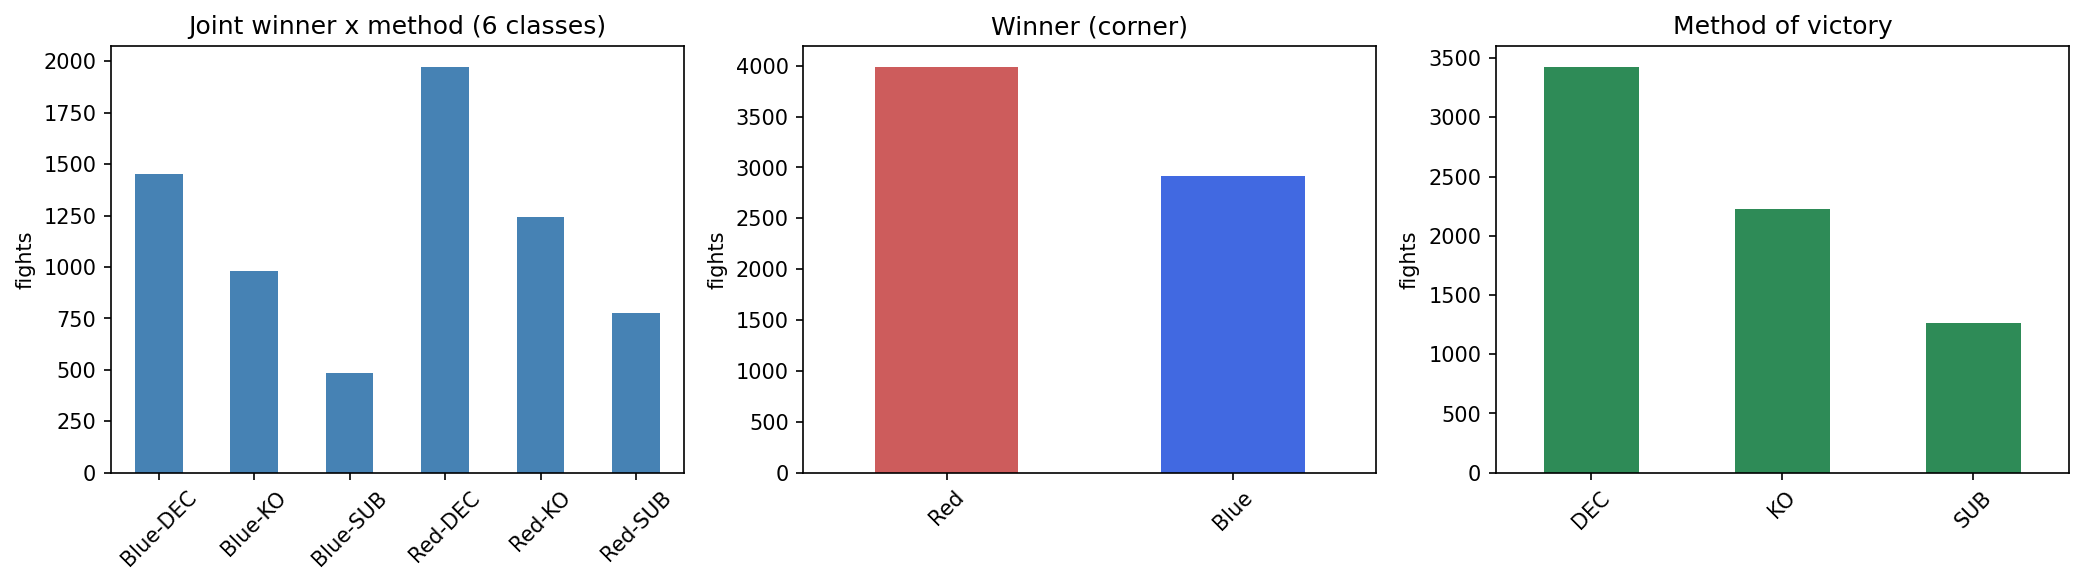
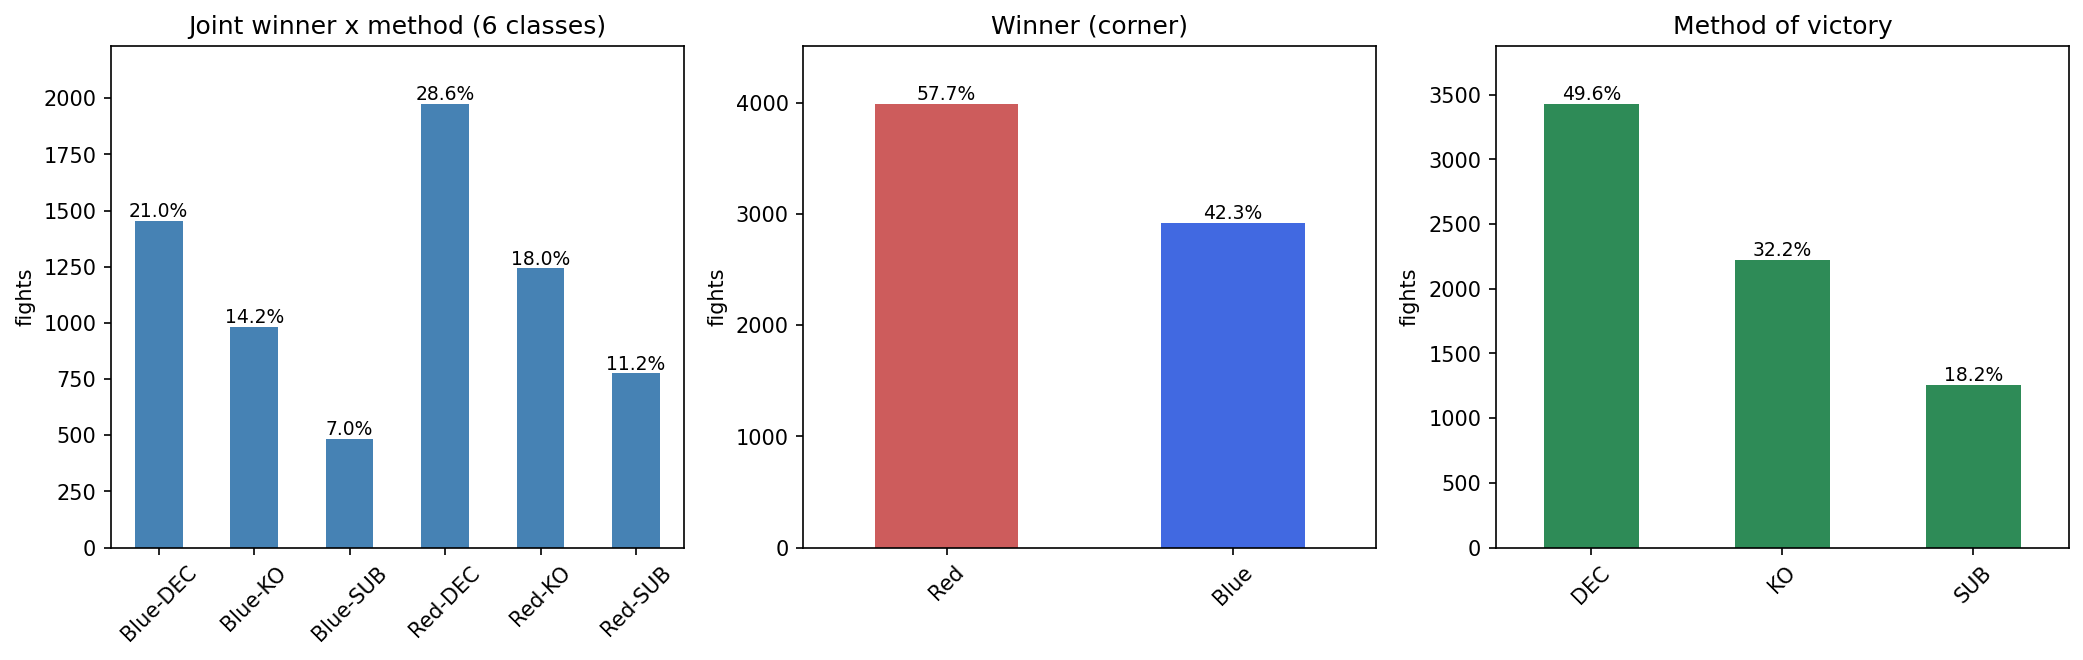
eda notebook improvements. include plots in report. sorting by weight classes, percentages on bar charts, adding clearer interpretations

diff --git a/src/plotting.py b/src/plotting.py
@@ -13,6 +13,22 @@ import matplotlib.pyplot as plt
 
 FIG_DIR = Path(__file__).resolve().parents[1] / "report" / "figures"
 
+# UFC weight classes ascending by weight: men's divisions first, then women's,
+# oddities (Catch Weight) last. Use this everywhere a plot/print compares divisions.
+WEIGHT_CLASS_ORDER = [
+    "Flyweight", "Bantamweight", "Featherweight", "Lightweight", "Welterweight",
+    "Middleweight", "Light Heavyweight", "Heavyweight",
+    "Women's Strawweight", "Women's Flyweight", "Women's Bantamweight", "Women's Featherweight",
+    "Catch Weight",
+]
+
+
+def order_weight_classes(present):
+    """Sort the weight classes in `present` by WEIGHT_CLASS_ORDER; unknown labels appended."""
+    present = list(present)
+    known = [w for w in WEIGHT_CLASS_ORDER if w in present]
+    return known + [w for w in present if w not in WEIGHT_CLASS_ORDER]
+
 
 def save_fig(name: str, dpi: int = 150, tight: bool = True):
     """Save the current matplotlib figure as report/figures/<name>.png."""

diff --git a/src/data/features.py b/src/data/features.py
@@ -26,11 +26,9 @@ def make_features(df: pd.DataFrame, use_diffs: bool = True, use_absolutes: bool 
         diff_cols = [c for c in df.columns if c.endswith("_dif")]
         parts.append(df[diff_cols].copy())
         
-# TODO (feature engineering):
-# Try alternative encoding for stance features:
-# - current: separate one-hot encoding for Red and Blue stance
-# - experiment with Red/Blue pair encoding (NxN combinations)
-# - group rare stance categories if they hurt model performance (SAMME)
+# Optional future experiment (not required, current encoding is what we report):
+# alternative stance encodings - Red/Blue pair encoding (NxN combinations) instead
+# of separate one-hots, or grouping rare stance categories if they hurt SAMME.
 
     if use_absolutes:
         abs_cols = [

diff --git a/src/data/load.py b/src/data/load.py
@@ -1,7 +1,7 @@
 """B1 + label: load mdabbert, drop result/leakage columns, drop weird outcomes,
 build the joint 6-class label (winner x method).
 
-STUB - fill the TODOs. Column facts already verified (see docs/DATASETS.md).
+Column facts verified in docs/DATASETS.md.
 """
 from pathlib import Path
 import pandas as pd

diff --git a/report/report.md b/report/report.md
@@ -58,21 +58,43 @@ We formulate the task as a single **multiclass classification problem over six c
 
 **Excluded outcomes.** Fights ending in ways that fall outside the three method buckets - disqualifications, no-contests, overturned results, draws, and bouts with an unrecorded method - are rare and not meaningfully predictable from pre-fight features. We drop them rather than dilute the label space with a noisy catch-all class; the exact filtering and its effect on dataset size are described in Section 3.
 
-## 3. Dataset description - ⏳ stub (waiting on data / Milica)
+## 3. Dataset description - ⏳ stub for Milica to fill (scaffold below; facts in docs/DATASETS.md)
 
-mdabbert Ultimate UFC Dataset: source, size (~7k fights, 2010-2026), key columns, pre-fight aggregation, what we exclude (`total_fight_time_secs`, result columns) and why. Weird outcomes dropped (with reasoning). (See DATASETS.md.)
+<!-- MILICA: write this as flowing prose (2-4 short paragraphs), not bullets. The bullets below
+are a checklist of what to cover, with the known facts filled in. Delete this comment and the
+"(write: ...)" prompts as you go. Source of truth = docs/DATASETS.md and src/data/load.py. -->
+
+- **Source and provenance.** mdabbert *Ultimate UFC Dataset* (Kaggle, file `ufc-master.csv`), itself a derivative of ufcstats.com / FightMetric (already introduced in Section 1). (write: one sentence on why this one - it ships pre-fight aggregates + betting odds in a single file.)
+- **Coverage and size.** Fights from 2010 to 2026; **6,911 fights** remain after dropping weird outcomes (out of the raw ~7k). (write: confirm the raw row count from the CSV.)
+- **Unit of observation.** One row per fight, with the two fighters anonymized to the Red and Blue corners; each row carries pre-fight career aggregates and physical attributes for both corners plus difference (`_dif`) columns. (write: name the main column groups - physical: reach/height/age/stance/weight class; record: wins/losses/win-streak; per-fight rates: sig. strikes, takedowns, control time, KD, sub attempts.)
+- **Target construction.** The 6-class label is winner (Red/Blue) x method (KO/TKO, SUB, DEC), built in `src/data/load.py` from the `Winner` and `finish` columns via `METHOD_MAP`. (write: one line.)
+- **What we exclude and why.** Result/leakage columns are dropped so nothing from the fight itself leaks in: `Winner`, `finish`, `finish_round`, `finish_round_time`, **`total_fight_time_secs`** (this fight's duration - the sneaky one), `empty_arena` (see `LEAK_COLS`). Betting-odds columns are kept out of the features and used only for the Section 7 benchmark. (write: one line.)
+- **Weird outcomes dropped.** DQ, no-contest, overturned, draws, and rows with an unrecorded method fall outside the three method buckets; they are rare and not predictable from pre-fight features, so we drop them rather than add a noisy catch-all class. (write: the exact count dropped if easy to get.)
+- **Missingness.** Debutants have no prior UFC record, so their career aggregates are mostly empty (~75% missing) and are imputed train-only; this is also the leakage check in Section 4. (write: one line on how imputation is handled - cross-reference Section 6.)
 
 ## 4. Exploratory data analysis - 🟡 drafted (C1/C2/C3 done; C2 confound is the highlight) - feeds: `notebooks/01_eda.ipynb`
 
 The dataset has 6,911 fights after dropping weird outcomes, spread across the six joint classes.
 
-**Class balance.** The classes are imbalanced: `Red-DEC` is the largest (1,974 fights) and `Blue-SUB` the smallest (485), roughly a fourfold spread. Broken down, the winner is Red 57.7% of the time and Blue 42.3%, and the method of victory is decision 49.6%, KO/TKO 32.2%, and submission 18.2%. Because of this imbalance we judge models on per-class and macro F1 and log-loss rather than raw accuracy, which a model could inflate by always predicting a decision. A method-by-weight-class breakdown shows the expected pattern that heavier divisions finish more often by knockout. (Figures: `class_balance.png`, `method_by_weightclass.png`.)
+**Class balance.** The classes are imbalanced: `Red-DEC` is the largest (1,974 fights) and `Blue-SUB` the smallest (485), roughly a fourfold spread. Broken down, the winner is Red 57.7% of the time and Blue 42.3%, and the method of victory is decision 49.6%, KO/TKO 32.2%, and submission 18.2%. Because of this imbalance we judge models on per-class and macro F1 and log-loss rather than raw accuracy, which a model could inflate by always predicting a decision. A method-by-weight-class breakdown shows the expected pattern that heavier divisions finish more often by knockout.
 
-**The red-corner confound.** Red wins 57.7% of fights, which at first looks like a "red advantage." It is not: the red corner is systematically assigned to the favourite (red is the betting favourite in 59.5% of fights). Conditioning on the market makes this clear: red wins 69.6% of the time when it is the favourite but only 40.4% when it is the underdog, while the favourite wins 65.5% of fights regardless of corner. So the corner is a proxy for who the market favours, and the colour itself carries almost no information. This is a selection effect, not a causal one, and it drives two design choices: we **symmetrize the corners** (randomly swap red/blue to a 50/50 base rate) so the models cannot exploit the shortcut, and we measure the naive "always-red" baseline only on the original, un-symmetrized corners. (Figure: `red_corner_confound.png`.)
+![The six joint outcome classes, with the winner and method marginals. The classes are imbalanced: Red-DEC is largest, Blue-SUB smallest.](figures/class_balance.png)
 
-**Feature distributions and correlations.** The difference features (red minus blue) are roughly centred, as expected once corners are balanced. Correlations among them are mostly low, with two intuitive exceptions: reach and height differences correlate at 0.63, and career KO and overall-win differences at 0.63. The features are therefore largely non-redundant, which is reassuring for the covariance-based baselines (LDA and QDA). (Figures: `feature_distributions.png`, `feature_correlations.png`.)
+![Method of victory by weight class: heavier divisions finish more often by knockout, lighter ones go to decision more often.](figures/method_by_weightclass.png)
 
-**Which features carry signal.** Ranking the difference features by their absolute correlation with the eventual winner is revealing on two counts. The most predictive sit in three different areas: recent form (win-streak difference, 0.13), grappling (average takedowns, 0.12), and experience (total rounds fought, 0.09), all ahead of striking and physical attributes. Reach (0.05) and especially age (0.005) barely move the needle, which is notable given how often both are invoked in fight analysis. More importantly, every one of these correlations is small (the largest is 0.13): no single pre-fight feature is strongly predictive, which is the first concrete sign that achievable accuracy will be limited. (Figure: `feature_importance.png`.)
+**The red-corner confound.** Red wins 57.7% of fights, which at first looks like a "red advantage." It is not: the red corner is systematically assigned to the favourite (red is the betting favourite in 59.5% of fights). Conditioning on the market makes this clear: red wins 69.6% of the time when it is the favourite but only 40.4% when it is the underdog, while the favourite wins 65.5% of fights regardless of corner. So the corner is a proxy for who the market favours, and the colour itself carries almost no information. This is a selection effect, not a causal one, and it drives two design choices: we **symmetrize the corners** (randomly swap red/blue to a 50/50 base rate) so the models cannot exploit the shortcut, and we measure the naive "always-red" baseline only on the original, un-symmetrized corners.
+
+![The red-corner confound: red wins 57.7% overall, but conditioning on the betting favourite shows red wins 69.6% when favoured and only 40.4% when not, while the favourite wins 65.5% regardless of corner. The colour itself carries almost no signal.](figures/red_corner_confound.png)
+
+**Feature distributions and correlations.** The difference features (red minus blue) are roughly centred, as expected once corners are balanced. Correlations among them are mostly low, with two intuitive exceptions: reach and height differences correlate at 0.63, and career KO and overall-win differences at 0.63. The features are therefore largely non-redundant, which is reassuring for the covariance-based baselines (LDA and QDA).
+
+![Distributions of six key pre-fight difference features (red minus blue), with units. The x-axes are cropped to the central 95% to suppress a few impossible data-entry outliers (e.g. a -188 cm reach difference). All are roughly symmetric and centred on zero once corners are balanced.](figures/feature_distributions.png)
+
+![Correlations among the key difference features: mostly low, with two intuitive exceptions (reach~height and career-KO~wins, both 0.63).](figures/feature_correlations.png)
+
+**Which features carry signal.** Ranking the difference features by their absolute correlation with the eventual winner is revealing on two counts. The most predictive sit in three different areas: recent form (win-streak difference, 0.13), grappling (average takedowns, 0.12), and experience (total rounds fought, 0.09), all ahead of striking and physical attributes. Reach (0.05) and especially age (0.005) barely move the needle, which is notable given how often both are invoked in fight analysis. More importantly, every one of these correlations is small (the largest is 0.13): no single pre-fight feature is strongly predictive, which is the first concrete sign that achievable accuracy will be limited.
+
+![Difference features ranked by absolute correlation with the winner (most and least predictive). Recent form, grappling, and experience top the list; reach and age sit near the bottom, and every correlation is small (max 0.13).](figures/feature_importance.png)
 
 **Leakage sanity check.** Career-aggregate features are only safe if they are computed from a fighter's prior bouts and exclude the one being predicted. We confirm this holds: experienced fighters have complete pre-fight averages (0% missing), whereas debutants (no prior UFC record) have mostly empty priors (~75% missing). If the current bout had leaked into the aggregates, debutants would already show statistics; they do not. The aggregates are genuinely pre-fight, so the row a model sees does not contain its own outcome.
 
@@ -106,9 +128,20 @@ then multiply the weight of every misclassified sample by `exp(alpha)` and renor
 
 **Validation.** The implementation is from scratch in NumPy. We validate it against scikit-learn's `AdaBoostClassifier(algorithm='SAMME')` with depth-one trees on the Iris dataset, checking both the stump alone and the full ensemble, and we separately confirm that on a two-class problem our SAMME matches binary AdaBoost (the K = 2 case above). All checks pass and are part of the project's test suite. As the brief requires, scikit-learn is used only for this validation; every reported number comes from our own code.
 
-## 6. Experimental setup - ⬜ stub, partly writable now - feeds: `src/data/`
+## 6. Experimental setup - ⬜ stub for Milica to fill (scaffold below; facts from `src/data/`)
 
-Feature build (difference and/or absolute features; corner symmetrization), chronological 80/20 split, scaling fit on train only, validation-against-sklearn protocol, metrics, number of seeds, hyperparameter-sweep protocol.
+<!-- MILICA: write as prose. The numbers below are known and verified from the pipeline/notebooks -
+just confirm them against src/data/split.py, src/data/pipeline.py and the notebooks, then turn the
+bullets into 2-3 paragraphs. Delete this comment and the "(confirm/write: ...)" prompts as you go. -->
+
+- **Feature matrix.** ~112 features: difference (`_dif`) columns + absolute R_/B_ columns + one-hot stance and weight class; betting-odds columns excluded (benchmark-only). Built by `src/data/features.py::make_features`. (confirm: exact feature count.)
+- **Corner symmetrization.** Corners randomly swapped to a 50/50 base rate so models cannot exploit the red-corner prior (`features.py::symmetrize`). Applied to the **training set only**; the test set keeps its original corners so the always-red and market references are scored on the real corners. (write: one line.)
+- **Split.** Chronological 80/20 (train = earlier fights, test = later), **5,529 train / 1,382 test** fights - no random shuffle, to mimic real forecasting and avoid lookahead. (`src/data/split.py`.)
+- **Scaling and imputation.** Both fit on the training set only and applied to the test set: standardization (mean 0, std 1) of the numeric features, one-hots left untouched; missing career aggregates median-imputed train-only. (confirm against `pipeline.py`.)
+- **Seeds.** All reported metrics are the mean (and std) over **3 symmetrization seeds**. (confirm: seed count and what the seed controls.)
+- **Validation-against-sklearn protocol.** Every from-scratch method is checked against scikit-learn on a reference dataset (LDA/QDA/kNN on the project data; SAMME on Iris) via `tests/`; sklearn is used only to confirm correctness, and all reported numbers come from our own code. (write: one line.)
+- **Metrics.** 6-class accuracy, winner- and method-collapsed accuracy, macro/per-class F1, log-loss and Brier (for the probabilistic market comparison), and the 6-class confusion matrix. All in `src/metrics.py`. (write: one line.)
+- **Hyperparameter-sweep protocol.** SAMME number-of-stumps via `staged_score`; kNN k-sweep and PCA-dimension sweep (Section 7 / E2-E3). (confirm: the k grid and PCA dims swept.)
 
 ## 7. Results - 🟡 drafted (E2/E3 rows still to add) - feeds: `notebooks/02-04`
 
@@ -125,15 +158,35 @@ All numbers below are the mean over three symmetrization seeds, on the chronolog
 | coin flip (reference) | - | 0.500 | - | - |
 | betting market (reference) | - | - | - | 1.551 |
 
-**The extension ties the best baseline.** SAMME reaches 0.633 winner accuracy and LDA 0.626; the gap is smaller than the seed-to-seed standard deviation (about 0.01-0.02), so the 200-stump ensemble and the single linear discriminant are, for practical purposes, equal. Both land squarely in the published ~63-67% winner-prediction ceiling and clearly beat the always-red baseline (0.562) and a coin flip. (Figure: `figures/model_comparison.png`.)
+**The extension ties the best baseline.** SAMME reaches 0.633 winner accuracy and LDA 0.626; the gap is smaller than the seed-to-seed standard deviation (about 0.01-0.02), so the 200-stump ensemble and the single linear discriminant are, for practical purposes, equal. Both land squarely in the published ~63-67% winner-prediction ceiling and clearly beat the always-red baseline (0.562) and a coin flip.
+
+![Winner accuracy across models against the reference baselines: SAMME and LDA tie at the top (~0.63), inside the published ceiling and well above always-red (0.562) and the coin flip (0.500).](figures/model_comparison.png)
 
 **The flexible and instance-based methods struggle in high dimensions.** QDA (0.567 winner) and kNN (0.550) trail the linear and boosted models, and their log-loss is poor (3.13 and 3.64 against ~1.6 for LDA/SAMME) - QDA stays overconfident even regularized, and kNN suffers the curse of dimensionality at 114 features. This is consistent with the EDA finding that the outcome is roughly linear in the difference features. Whether dimensionality reduction rescues them is the ablation in the next subsection.
 
-**Convergence and overfitting.** SAMME's test accuracy peaks at around round 113 and drifts slightly down by round 200, so the ensemble mildly overfits past its sweet spot - a textbook boosting curve. (Figure: `figures/hyperparam_samme.png`.) The confusion matrix shows the models lean toward the common decision classes, so KO and especially submission outcomes are recovered less often. (Figure: `figures/confusion_matrix_baseline.png`.)
+**Convergence and overfitting.** SAMME's test accuracy peaks at around round 113 and drifts slightly down by round 200, so the ensemble mildly overfits past its sweet spot - a textbook boosting curve.
+
+![SAMME test accuracy by boosting round: it peaks near round 113 and drifts down by round 200, a textbook mild-overfitting curve.](figures/hyperparam_samme.png)
+
+The confusion matrices tell the same story for the extension and the best baseline: predictions concentrate on the two common decision classes (Red-DEC and Blue-DEC), so knockouts and especially submissions are recovered far less often. SAMME, for instance, recovers Red-DEC outcomes 51% of the time but Blue-SUB only 14%.
+
+![Six-class confusion matrix for the SAMME extension (row-normalized): predictions pile onto the decision classes, and submissions are rarely recovered.](figures/confusion_matrix_samme.png)
+
+![The same pattern for the best baseline, LDA (row-normalized), shown for comparison.](figures/confusion_matrix_baseline.png)
 
 **Against the market.** Scored by log-loss on the 1,099 fights with full odds coverage, SAMME reaches 1.663 versus the de-vigged market's 1.551 (Brier 0.793 versus 0.749). The market is better but the gap is small: a log-loss difference of about 0.11 means the market assigns on average roughly 1.12 times more probability to the actual outcome. We get close to, but do not beat, the practical ceiling.
 
-**Dimensionality reduction.** PCA does not rescue the weaker models. The variance is spread out (50 of the 114 components are needed for 90%, so there is no compact low-dimensional structure), and at their best PCA dimension QDA reaches 0.566 and kNN 0.562 winner accuracy, neither beating LDA's 0.626. (Figures: `figures/pca_scree.png`, `figures/pca_sweep.png`, `figures/pca_2d.png`.) The kNN k-sweep is the remaining E2 item.
+![Log-loss of our models versus the de-vigged betting market (lower is better): the market leads at 1.55, but SAMME (1.66) and LDA come close.](figures/logloss_comparison.png)
+
+**Dimensionality reduction.** PCA does not rescue the weaker models. The variance is spread out (50 of the 114 components are needed for 90%, so there is no compact low-dimensional structure), and at their best PCA dimension QDA reaches 0.566 and kNN 0.562 winner accuracy, neither beating LDA's 0.626.
+
+![PCA scree curve: variance is spread out (about 50 of 114 components are needed for 90%), so there is no compact low-dimensional structure to recover.](figures/pca_scree.png)
+
+![Winner accuracy versus number of PCA components for QDA and kNN: neither reaches LDA's 0.626 at any dimension.](figures/pca_sweep.png)
+
+![The data projected onto its first two principal components: the six classes overlap heavily, consistent with a thin, roughly linear signal.](figures/pca_2d.png)
+
+The kNN k-sweep is the remaining E2 item.
 
 ## 8. Analysis and discussion - ✅ drafted
 
@@ -145,7 +198,9 @@ All numbers below are the mean over three symmetrization seeds, on the chronolog
 
 **What predicts how a fight ends?** Method of victory is harder than the winner: method accuracy hovers around 0.50, and the confusion matrix shows the models concentrate on the common decision outcomes, recovering knockouts and especially submissions less often. The class imbalance (decisions are by far the largest class) and the inherent unpredictability of finishes both contribute.
 
-**Where prediction works better.** The single accuracy figure hides real variation across divisions. Broken down by weight class, winner accuracy ranges from about 0.73 in welterweight to about 0.55 in flyweight, an eighteen-point spread. Crucially, this variation does not track weight in any clean way: the correlation between a division's weight and its accuracy is only about +0.31 across the nine divisions, weak and not significant given so few points. The heaviest division (heavyweight) sits mid-table, the lightest (flyweight) is lowest, and the middle divisions span the whole range (welterweight highest, middleweight low). If anything, that weak positive sign points the opposite way to the common knockout-luck intuition, it would make heavier divisions marginally more predictable rather than less, but the effect is too small and noisy to rest anything on. The per-division estimates are themselves noisy (several divisions have only about 50 to 100 test fights), so we report the spread as a real but largely unexplained effect and leave its causes and per-division modelling to future work. (Figure: `accuracy_by_weightclass.png`.)
+**Where prediction works better.** The single accuracy figure hides real variation across divisions. Broken down by weight class, winner accuracy ranges from about 0.73 in welterweight to about 0.55 in flyweight, an eighteen-point spread. Crucially, this variation does not track weight in any clean way: the correlation between a division's weight and its accuracy is only about +0.31 across the nine divisions, weak and not significant given so few points. The heaviest division (heavyweight) sits mid-table, the lightest (flyweight) is lowest, and the middle divisions span the whole range (welterweight highest, middleweight low). If anything, that weak positive sign points the opposite way to the common knockout-luck intuition, it would make heavier divisions marginally more predictable rather than less, but the effect is too small and noisy to rest anything on. The per-division estimates are themselves noisy (several divisions have only about 50 to 100 test fights), so we report the spread as a real but largely unexplained effect and leave its causes and per-division modelling to future work.
+
+![Winner accuracy by weight class: it ranges from ~0.73 (welterweight) down to ~0.55 (flyweight), but does not track division weight in any clean way (correlation only +0.31 across nine divisions).](figures/accuracy_by_weightclass.png)
 
 **Errors and limitations.** The headline limitation is the low ceiling itself: a single clean strike can end a fight, so a large share of the outcome is irreducible variance no pre-fight model can capture. Others: the six-class target is imbalanced; symmetrization deliberately removes the corner prior, which costs a little on the original-corner test but buys methodological honesty; and the debut indicator we tried added nothing. None of these are fatal, and several of our choices (the confound control, the leakage audit, the market benchmark) are exactly the rigour that distinguishes the study.
 

diff --git a/docs/TODO.md b/docs/TODO.md
@@ -124,16 +124,16 @@ P0 critical · P1 important · P2 nice-to-have. Early tasks are firm; later ones
 
 ### E. Evaluation & analysis  (`notebooks/04_results`)  → depends on D
 - [x] **E1.** Metrics done (`src/metrics.py`) + applied across 02/03/04: mean+/-std over 3 seeds, winner/method collapses, confusion matrix, log-loss/Brier. (Luka)
-- [~] **E2.** SAMME convergence curve done (`03`, `staged_score`, peaks ~round 113). Remaining: kNN k-sweep + PCA-dims sweep. (Milica)
+- [~] **E2.** SAMME convergence curve done (`03`, `staged_score`, peaks ~round 113). Remaining: kNN k-sweep (PCA-dims sweep effectively covered by the E3 ablation). (Milica)
 - [x] **E3.** DR ablation done (`04`). Finding: PCA does NOT rescue QDA/kNN (variance spread, 50/114 comps for 90%); best PCA QDA 0.566 / kNN 0.562, neither beats LDA 0.626. (Luka)
 
 ### F. Out of scope (TA: nothing beyond the proposal; deadline tomorrow)
 - ~~F1 nationality scrape~~ · ~~F2 fight-metric regression~~ - cut. Don't start these.
 
 ### G. Deliverables  → depends on E
-- [~] **G1.** Report - **drafted: Sections 1 (+headline), 1.1, 2, 4 EDA, 5.1, 5.2, 7 Results, 9 (+findings), References.** Remaining: 3 dataset + 6 setup (Milica), 8 analysis (Luka, after E3). (both)
+- [~] **G1.** Report - **drafted: Sections 1 (+headline), 1.1, 2, 4 EDA, 5.1, 5.2, 7 Results, 8 Analysis, 9 (+findings), References. All 14 figures now embedded inline (incl. a SAMME confusion matrix).** Remaining: 3 dataset + 6 setup (Milica - stub scaffolds in place to fill); final pre-PDF cleanup (strip status tags + author comments). (both)
 - [ ] **G2.** Oral-defense slides. (both)
-- [ ] **G3.** README for end users. (Milica)
+- [x] **G3.** README for end users (`README.md`: overview, findings, layout, run, data). Done. (Milica)
 
 ## Backlog (later / nice-to-have, not blocking)
 - [ ] **SAMME speed.** ~2.8s/stump on the full data (5529x112) -> ~9.4 min for 200 estimators. Cause: the from-scratch stump scans every candidate threshold (~n_samples) for all 112 features each round. Fine for one fit + `staged_score`; if seed-averaging/experimentation gets painful, speed it up via a quantile threshold grid (~32-64 thresholds/feature) - keep Luka's comments where they still apply.

diff --git a/CLAUDE.md b/CLAUDE.md
@@ -184,7 +184,7 @@ General texts: Duda/Hart/Stork (*Pattern Classification*), Bishop (*PRML*), Hast
 - ✅ Datasets downloaded + inspected → [DATASETS.md](docs/DATASETS.md).
 - ✅ Baselines ported into `src/baselines/` + validated vs sklearn (`tests/`).
 - ✅ SAMME extension implemented from scratch + validated; eval metrics (`src/metrics.py`), naive baselines (`src/baselines/naive.py`), odds benchmark (`src/data/odds.py`), plotting helpers (`src/plotting.py`) added.
-- ✅ Data pipeline: B1 (load+label), B2 (features), B3 (symmetrize) done; B4 (chronological split + scaling) still pending.
+- ✅ Data pipeline: B1 (load+label), B2 (features), B3 (symmetrize), B4 (chronological split + train-only scaling) all done; composed in `src/data/pipeline.py::build_dataset`.
 - ✅ Citation resolved (ACM, not IEEE) + ~63-67% ceiling grounded → [SOURCES.md](docs/SOURCES.md).
 - ✅ Resolved: logistic regression NOT used as a baseline (LDA/QDA/kNN are enough).
 